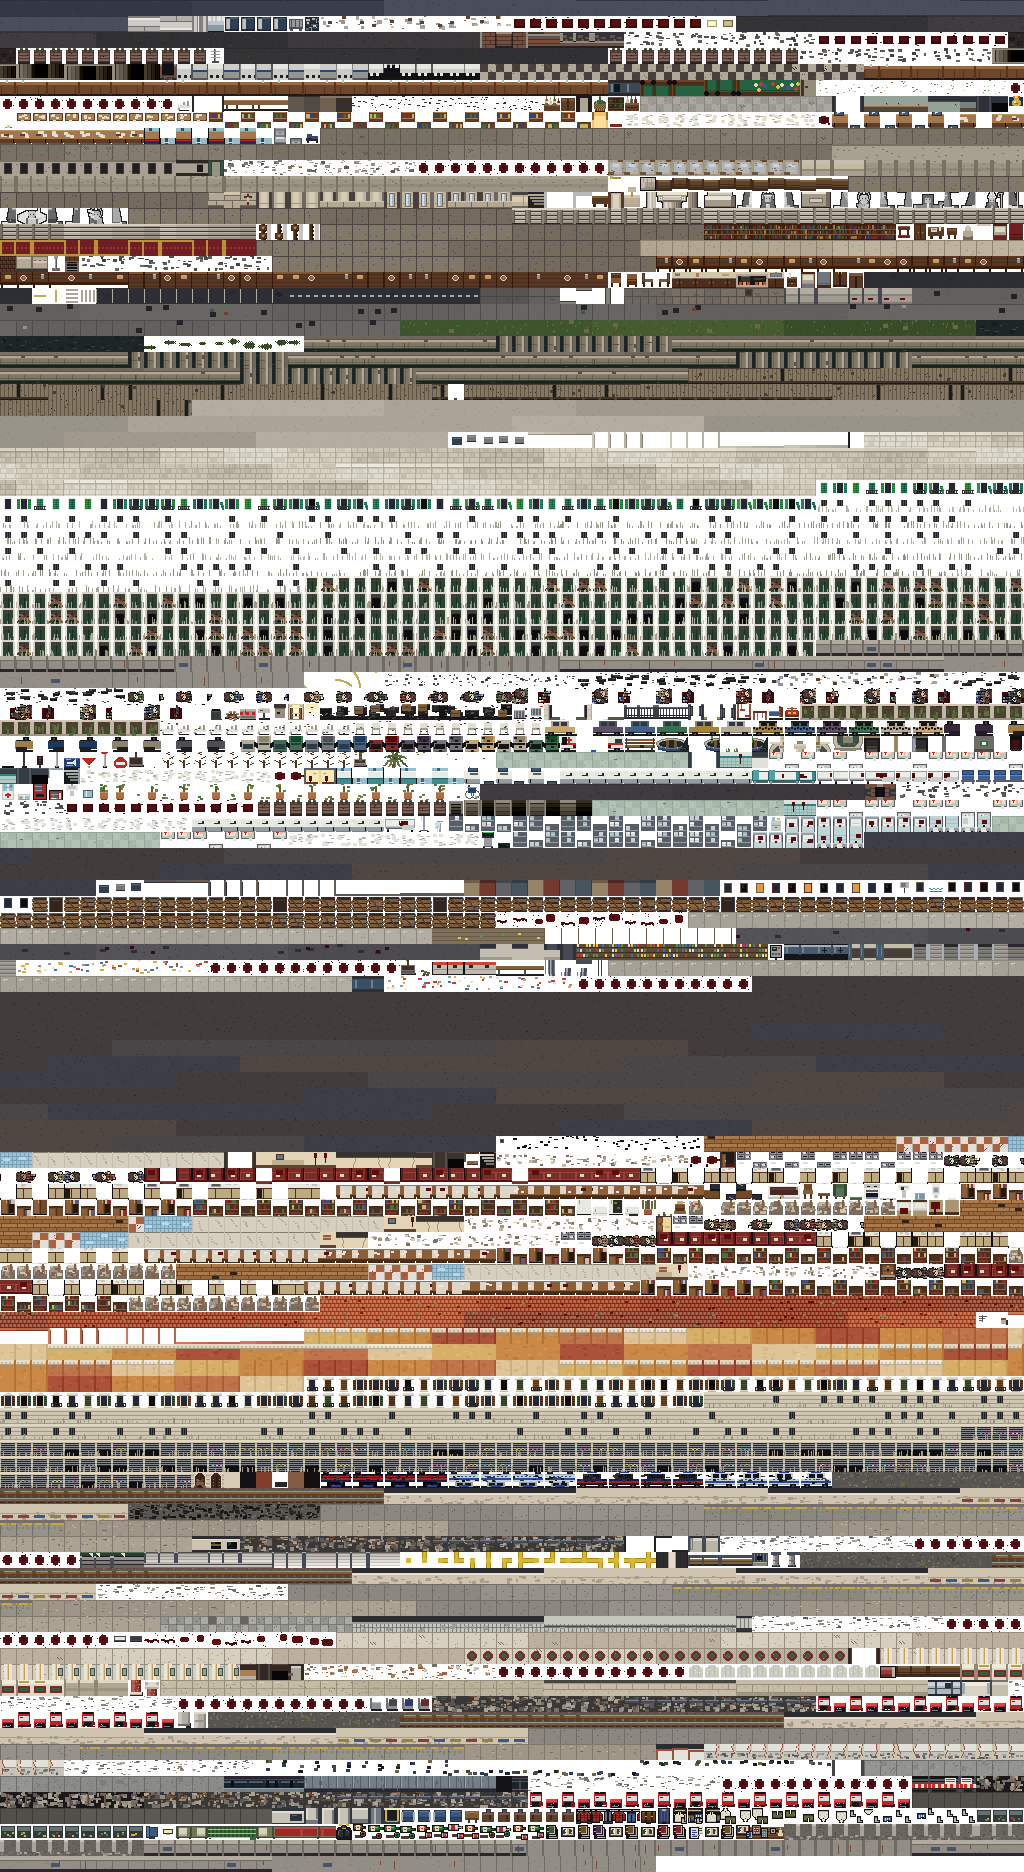
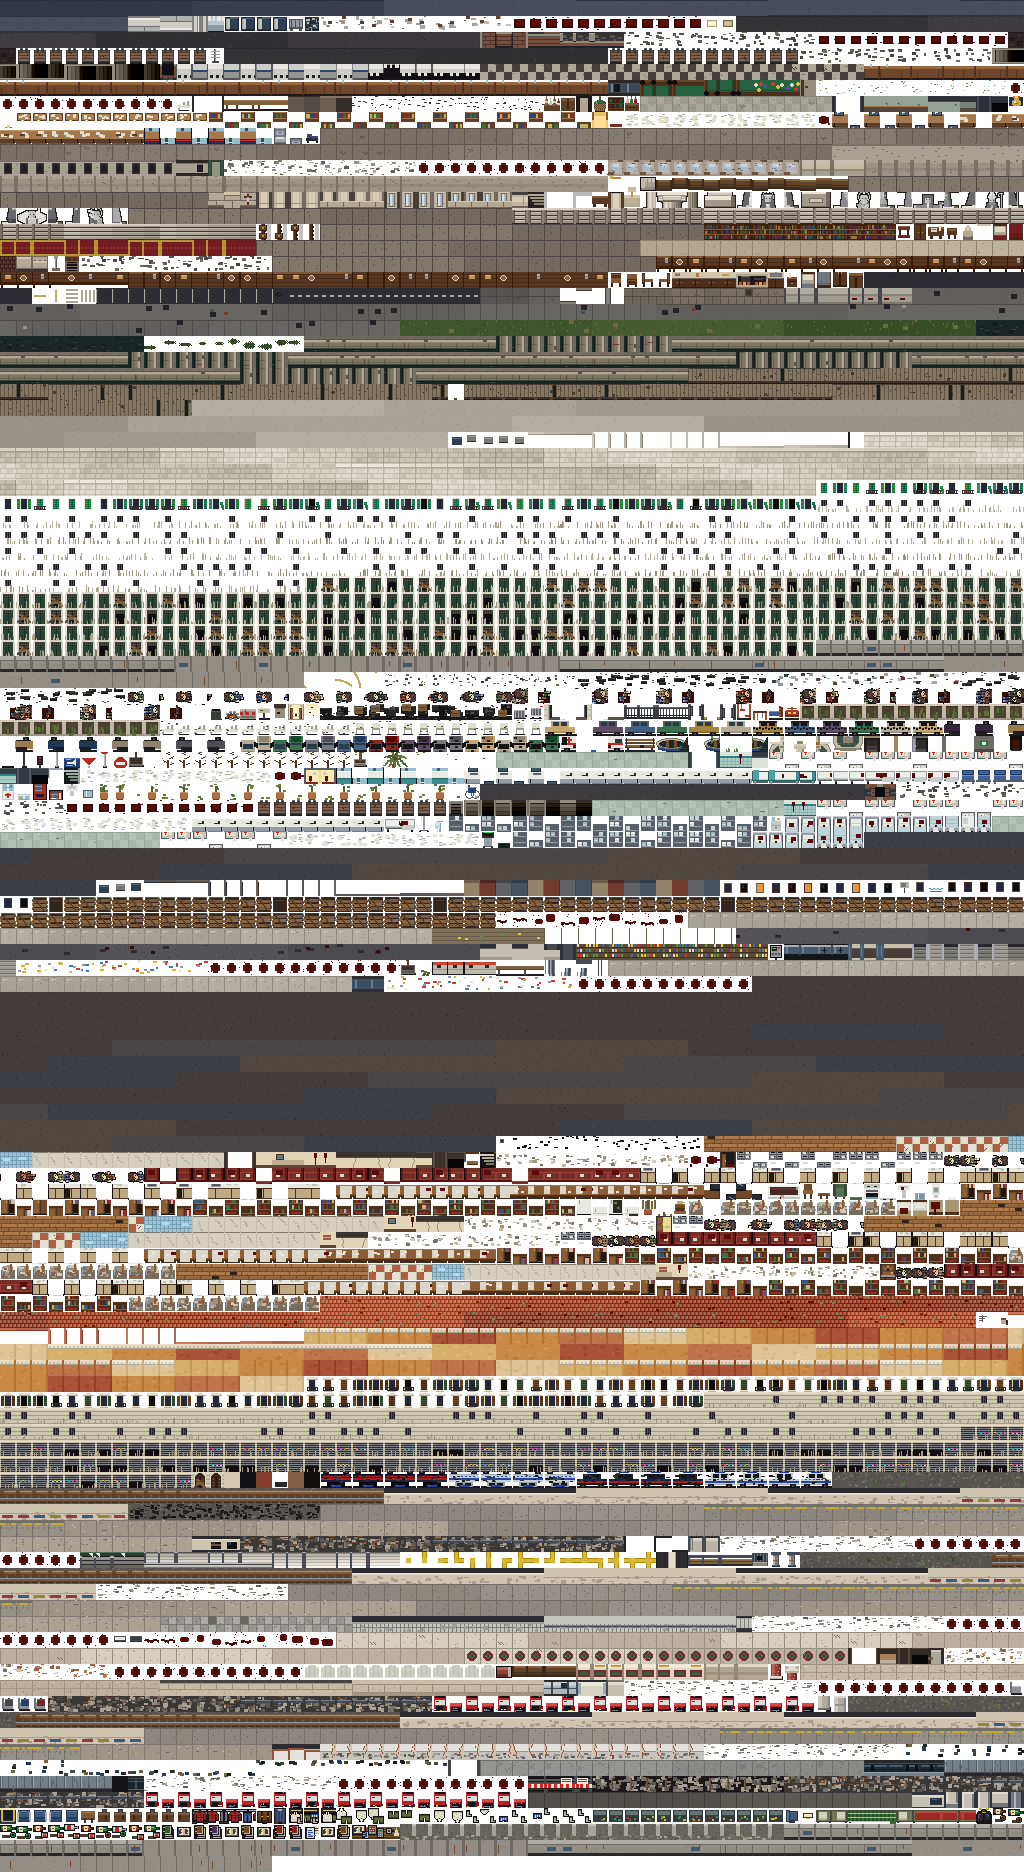
fix(terme): via la meridiana, sembrava un separatore
La striscia d'ottone lungo il salone delle Terme di Diocleziano si
leggeva come una barriera: le sue celle tornano pavimento di marmo e il
pittore della meridiana esce dall'atlante.

Changed region(s): [[0.0, 0.8675, 1.0, 1.0]]

diff --git a/lib/core/levels/rome/terme.dart b/lib/core/levels/rome/terme.dart
@@ -2,15 +2,14 @@
 /// Angeli at the west end of the road past Termini: a vestibule, then the
 /// great hall -- the baths' frigidarium, which Michelangelo made into the
 /// church -- its vault still standing on the eight columns of red granite
-/// the Romans set up, the pews shoved about, and the meridian, the brass
-/// line let into the floor to read the noon sun by, running the length of
-/// it. Daylight comes down from the thermal windows high in its walls.
+/// the Romans set up, the pews shoved about. Daylight comes down from the
+/// thermal windows high in its walls.
 /// - `x` darkness, `W` the north wall, `I` the side walls and the wall
 ///   between the hall and the vestibule, `w` the front wall, `O` a column,
 ///   `A` the high altar: walls.
 /// - `E` the portal onto the road, the way in and out.
 /// - `T` a pew, `K` a column drum on its side: obstacles.
-/// - `.` marble floor, `m` the meridian, `:` fallen plaster and glass
+/// - `.` marble floor, `:` fallen plaster and glass
 ///   (noisy), `b` blood, `^` daylight from a thermal window.
 // terme-rows-start
 const List<String> termeRows = <String>[
@@ -19,14 +18,14 @@ const List<String> termeRows = <String>[
   'xWWWWWWWWWWWWWWWWWWWWWWWWWWWWWWWWWWWWWWx',
   'xI.....O.......O..AAAA..O.......O.....Ix',
   'xI.......:........AAAA................Ix',
-  'xI..^.......b.........:.....m......^..Ix',
-  'xI...TTTT..TTTT.....TTTT....m..TTTT...Ix',
-  'xI...TTTT..TTTT.....TTTT....m..TTTT...Ix',
-  'xI...........T..:..........bm.......:.Ix',
-  'xI...TTTT..TTTT.....TTTT....m..TTTT...Ix',
-  'xI...TTTT..TTTT.....TTTT....m..TTTT...Ix',
-  'xI.K......^.......b.......:.m.^.......Ix',
-  'xI..:..O.......O........O...m...O.....Ix',
+  'xI..^.......b.........:............^..Ix',
+  'xI...TTTT..TTTT.....TTTT.......TTTT...Ix',
+  'xI...TTTT..TTTT.....TTTT.......TTTT...Ix',
+  'xI...........T..:..........b........:.Ix',
+  'xI...TTTT..TTTT.....TTTT.......TTTT...Ix',
+  'xI...TTTT..TTTT.....TTTT.......TTTT...Ix',
+  'xI.K......^.......b.......:...^.......Ix',
+  'xI..:..O.......O........O.......O.....Ix',
   'xIIIIIIIIIIIIIIIII....IIIIIIIIIIIIIIIIIx',
   'xxxxxxxxxxxI................Ixxxxxxxxxxx',
   'xxxxxxxxxxxI....b.......:...Ixxxxxxxxxxx',

diff --git a/test/rome_station_test.dart b/test/rome_station_test.dart
@@ -247,7 +247,7 @@ void main() {
     });
 
     test('the vestibule opens onto the great hall, all of it within reach, '
-        'the brass meridian running down it between the pews', () {
+        'with nothing let into its floor that reads as a barrier', () {
       final world = createGameWorld();
       final start = terme.tilesOf('E').single.step(Direction.north);
       final reached = from(world, start, terme).keys.toSet();
@@ -257,9 +257,7 @@ void main() {
         }
       }
       expect(terme.tilesOf('O'), hasLength(8), reason: 'the eight columns');
-      final meridian = terme.tilesOf('m');
-      expect(meridian.map((tile) => tile.x).toSet(), hasLength(1));
-      expect(meridian.length, greaterThan(5));
+      expect(terme.tilesOf('m'), isEmpty, reason: 'no meridian');
       expect(workInProgressEnds.keys.where(terme.bounds.contains), isEmpty);
     });
 

diff --git a/tools/tile_atlas_terme.py b/tools/tile_atlas_terme.py
@@ -6,7 +6,7 @@ A module of its own, the way docs/level_pipeline.md wants the interiors to
 go: build_tile_atlas.py only lists it. The hall is the baths' frigidarium,
 which Michelangelo made into the church: floors of coloured marble, walls
 washed in ochre over the Roman brick, the eight columns of red granite the
-Romans set up, and the brass meridian let into the floor. What stands
+Romans set up. What stands
 taller than its cell leans out over the row above (`leaning`).
 """
 from __future__ import annotations
@@ -50,8 +50,6 @@ TM_GRANITE_DARK = (104, 42, 38)
 TM_GRANITE_LIGHT = (184, 100, 88)
 TM_CAPITAL = (226, 220, 204)
 TM_CAPITAL_SHADE = (184, 176, 160)
-TM_BRASS = (200, 164, 70)
-TM_BRASS_LIGHT = (236, 206, 120)
 TM_PEW = (98, 66, 40)
 TM_PEW_TOP = (134, 94, 58)
 TM_PEW_DARK = (62, 42, 26)
@@ -85,19 +83,6 @@ def paint_floor(d, rng, px, py, grey, inlay):
         cx, cy = px + rng.randrange(2, 10), py + rng.randrange(2, 12)
         for i in range(6):
             rect(d, cx + i, cy + (i % 3) - 1, 1, 1, (120, 110, 98))
-
-
-def paint_meridian(d, rng, px, py, sign):
-    """The meridian: a strip of brass down the middle of a band of white
-    marble, and every few slabs one of the signs of the zodiac in coloured
-    stone beside it, where the noon sun falls in its month."""
-    paint_floor(d, rng, px, py, False, False)
-    rect(d, px + 4, py, 8, TILE, (232, 228, 216))
-    rect(d, px + 7, py, 2, TILE, TM_BRASS)
-    rect(d, px + 7, py, 1, TILE, TM_BRASS_LIGHT)
-    if sign:
-        rect(d, px + 10, py + 4, 5, 8, (40, 70, 110))
-        rect(d, px + 11, py + 5, 3, 6, TM_GOLD)
 
 
 def paint_edge(d, px, py, right):
@@ -299,11 +284,6 @@ def terme_diocleziano(atlas: Atlas, rng) -> dict:
             [[], atlas.bucket(lambda r=right: tile_of(
                 lambda d: paint_edge(d, 0, 0, r)), 1)],
             [neighbour_key(1 if right else -1, 0, "x")]))
-    # A sign of the zodiac on every third slab of the meridian.
-    rules.append(rule("ground", "m", [atlas.bucket(
-        lambda s=sign: tile_of(lambda d: paint_meridian(d, rng, 0, 0, s)))
-        for sign in (False, True)], [pattern_key(0, 1, 3, 0)]))
-
     rules.append(rule(
         "structures", "I",
         [atlas.bucket(lambda b=below: tile_of(
